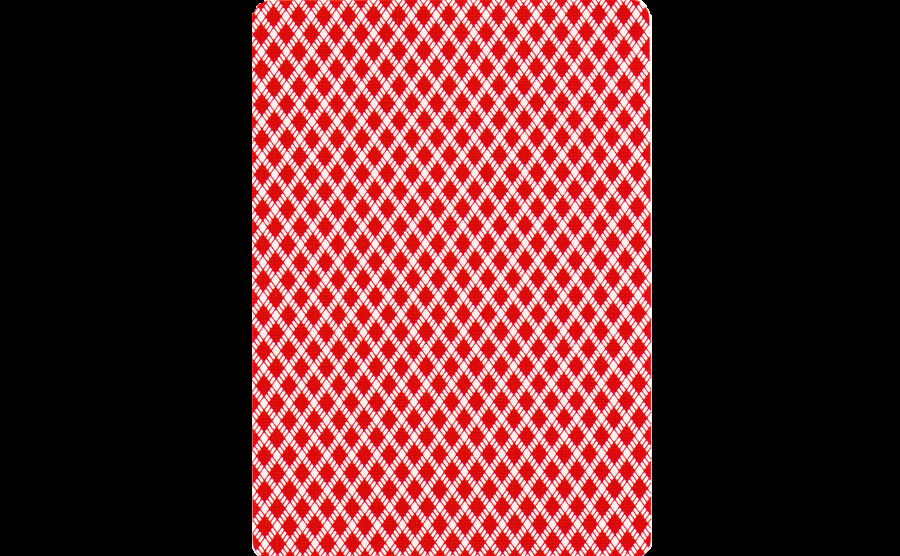
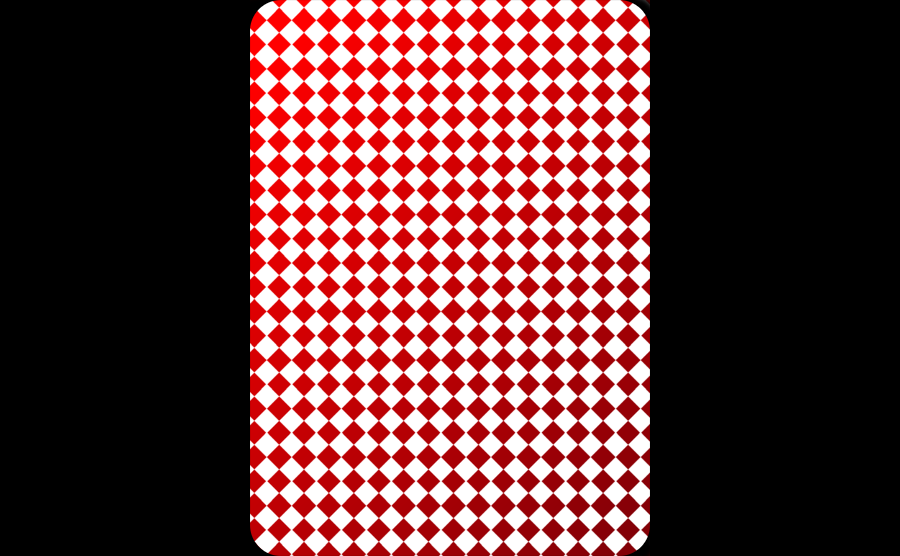
add neon chips and geometric card back

diff --git a/src/pages/store/store.ts b/src/pages/store/store.ts
@@ -209,98 +209,4 @@ export class StorePage {
         }
     }
 
-
-    // updateStoreTable(columnName: string, player_id: number, item: StoreItem) {
-    //     let newPlayerMoneyTotal = this.player.money - item.price;
-
-    //     // update db that user bought this background
-    //     alert('You bought: ' + item.title + ' for: $' + item.price);
-
-    //     this.database.executeSql("UPDATE store SET " + columnName + " = 'true' WHERE player_id = " + player_id + "", []).then((data) => {
-    //         console.log("Bought Background: " + JSON.stringify(data));
-    //         this.database.executeSql("UPDATE players SET money = " + newPlayerMoneyTotal + " WHERE id = " + player_id + "", []).then((data) => {
-    //             this.player.subtractMoney(item.price);
-    //             console.log("UPDATED: " + JSON.stringify(data));
-    //             this.getPurchases();
-    //         }, (error) => {
-    //             console.log("ERROR: " + JSON.stringify(error.message));
-    //         });
-    //     }, (error) => {
-    //         console.log("ERROR: " + JSON.stringify(error.message));
-    //         console.log("sql statement: " + "UPDATE players SET money = " + newPlayerMoneyTotal + " WHERE id = " + player_id + "");
-    //     });
-    // }
-
-
-    // getPurchases() {
-    //     this.database.executeSql("SELECT * FROM players", []).then((data) => {
-    //         if (data.rows.length > 0) {
-    //             for (var i = 0; i < data.rows.length; i++) {
-    //                 let row = data.rows.item(i);
-    //                 this.player = new Player(row.id, row.name, [], row.money, false, "Human", 0, 0);
-    //             }
-    //             this.database.executeSql("SELECT * FROM store", []).then((data) => {
-    //                 this.storeDBItem = {};
-    //                 if (data.rows.length > 0) {
-    //                     for (var i = 0; i < data.rows.length; i++) {
-    //                         let dbItem = data.rows.item(i);
-    //                         if (dbItem.player_id === this.player.id) {
-    //                             this.storeDBItem = {
-    //                                 'player_id': dbItem.player_id,
-    //                                 'greenPoker': dbItem.greenPoker_back,
-    //                                 'redPoker': dbItem.redPoker_back,
-    //                                 'bluePoker': dbItem.bluePoker_back,
-    //                                 'greenFelt': dbItem.greenFelt_back,
-    //                                 'spaceNight': dbItem.spaceNight_back,
-    //                                 'redDiamonds': dbItem.redDiamonds_cardBack,
-    //                                 'material': dbItem.material_cardFront,
-    //                                 'classic': dbItem.classic_cardFront,
-    //                                 'vegas': dbItem.vegas_chips
-    //                             };
-    //                             break;
-    //                         }
-    //                     }
-    //                     this.backgrounds = [
-    //                         new StoreItem('Green Poker', 'assets/img/backgrounds/greenPoker.png', 'A nice classic table to play some black jack with your friends on!', 8500, 'greenPoker', this.storeDBItem['greenPoker'] === 'true'),
-    //                         new StoreItem('Red Poker', 'assets/img/backgrounds/redPoker.png', 'Red is for Warning, because with this table it shows you mean business!', 8500, 'redPoker', this.storeDBItem['redPoker'] === 'true'),
-    //                         new StoreItem('Blue Poker', 'assets/img/backgrounds/bluePoker.png', 'A blue, calmning twist on the class green black jack table.', 8500, 'bluePoker', this.storeDBItem['bluePoker'] === 'true'),
-    //                         new StoreItem('Green Felt', 'assets/img/backgrounds/greenFelt.png', 'A nice table to play some black jack with your friends on!', 2000, 'greenFelt', true),
-    //                         new StoreItem('Space Night', 'assets/img/storePics/space_night.jpg', 'Nothing like playing cards under the night sky with a full moon!', 8500, 'spaceNight', this.storeDBItem['spaceNight'] === 'true')
-    //                     ];
-    //                     this.cardFronts = [
-    //                         new StoreItem('Material', 'assets/img/storePics/material.png', 'A spin off of Google\'s material design, these cards are minimalistic and simple but beautiful.', 8000, 'material', true)
-    //                     ];
-    //                     this.cardBacks = [
-    //                         new StoreItem('Red Diamonds', 'assets/img/storePics/redDiamonds.png', 'Can\'t go wrong with the red diamonds, unless the dealer turns them over for BlackJack.', 2000, 'redDiamonds', true)
-    //                     ];
-    //                     this.chips = [
-    //                         new StoreItem('Vegas', 'assets/img/storePics/vegas.png', 'The good ol classic vegas style chips. Certainly would love stacks of the gold chip.', 2000, 'vegasChips', true)
-    //                     ];
-
-    //                 } else {
-    //                     // No row in store?
-    //                     this.addStoreRow(this.player);
-    //                 }
-    //             }, (error) => {
-    //                 console.log("ERROR getting purchases in storePage: " + JSON.stringify(error));
-    //             });
-    //         } else {
-    //             // No player in the db
-    //         }
-    //     }, (error) => {
-    //         console.log("ERROR: " + JSON.stringify(error));
-    //     });
-
-    // }//END getPurchasese()
-
-    // addStoreRow(player: Player) {
-    //     this.database.executeSql("INSERT INTO store (player_id, greenPoker_back, redPoker_back, bluePoker_back, greenFelt_back, spaceNight_back, redDiamonds_cardBack, material_cardFront, classic_cardFront, vegas_chips) " +
-    //         " VALUES ('" + player.id + "', 'false', 'false', 'false', 'true', 'false', 'true', 'true', 'false', 'true')", []).then((data) => {
-    //             console.log("INSERTED into store: " + " VALUES ('" + player.id + "', 'false', 'false', 'false', 'true', 'false', 'true', 'true', 'false', 'true')");
-    //             this.getPurchases();
-    //         }, (error) => {
-    //             console.log("ERROR: " + JSON.stringify(error.message));
-    //         });
-    // }
-
 }

diff --git a/src/providers/store-provider.ts b/src/providers/store-provider.ts
@@ -18,12 +18,14 @@ class StoreRow {
     public greenFelt_back: string;
     public spaceNight_back: string;
     public redDiamonds_cardBack: string;
+    public geometric_cardBack: string;
     public material_cardFront: string;
     public classic_cardFront: string;
     public vegas_chips: string;
+    public neon_chips: string;
 
     constructor(player_id: string, greenPoker_back: string, redPoker_back: string, bluePoker_back: string, greenFelt_back: string, spaceNight_back: string,
-        redDiamonds_cardBack: string, material_cardFront: string, classic_cardFront: string, vegas_chips: string) {
+        redDiamonds_cardBack: string, geometric_cardBack: string, material_cardFront: string, classic_cardFront: string, vegas_chips: string, neon_chips: string) {
         this.player_id = player_id;
         this.greenPoker_back = greenPoker_back;
         this.redPoker_back = redPoker_back;
@@ -31,9 +33,11 @@ class StoreRow {
         this.greenFelt_back = greenFelt_back;
         this.spaceNight_back = spaceNight_back;
         this.redDiamonds_cardBack = redDiamonds_cardBack;
+        this.geometric_cardBack = geometric_cardBack;
         this.material_cardFront = material_cardFront;
         this.classic_cardFront = classic_cardFront;
         this.vegas_chips = vegas_chips;
+        this.neon_chips = neon_chips;
     }
 }
 class StoreItem {
@@ -60,7 +64,7 @@ export class StoreProvider {
     database: SQLite;
     settings: Settings;
     purchases: any;
-    columns: string = "player_id, greenPoker_back, redPoker_back, bluePoker_back, greenFelt_back, spaceNight_back, redDiamonds_cardBack, material_cardFront, classic_cardFront, vegas_chips";
+    columns: string = "player_id, greenPoker_back, redPoker_back, bluePoker_back, greenFelt_back, spaceNight_back, redDiamonds_cardBack, geometric_cardBack, material_cardFront, classic_cardFront, vegas_chips, neon_chips";
 
     constructor(public platform: Platform, public http: Http, private playerProvider: PlayerProvider, private toastProvider: ToastProvider) {
         this.purchases = {
@@ -98,9 +102,11 @@ export class StoreProvider {
                                 'greenFelt': dbItem.greenFelt_back,
                                 'spaceNight': dbItem.spaceNight_back,
                                 'redDiamonds': dbItem.redDiamonds_cardBack,
+                                'geometric': dbItem.geometric_cardBack,
                                 'material': dbItem.material_cardFront,
                                 'classic': dbItem.classic_cardFront,
-                                'vegas': dbItem.vegas_chips
+                                'vegas': dbItem.vegas_chips,
+                                'neon': dbItem.neon_chips
                             };
                             break;
                         }
@@ -117,9 +123,11 @@ export class StoreProvider {
                             'greenFelt': data.greenFelt_back,
                             'spaceNight': data.spaceNight_back,
                             'redDiamonds': data.redDiamonds_cardBack,
+                            'geometric': data.geometric_cardBack,
                             'material': data.material_cardFront,
                             'classic': data.classic_cardFront,
-                            'vegas': data.vegas_chips
+                            'vegas': data.vegas_chips,
+                            'neon': data.neon_chips
                         };
                     });
                 }
@@ -136,10 +144,12 @@ export class StoreProvider {
                     new StoreItem('Material', 'assets/img/storePics/material.png', 'A spin off of Google\'s material design, these cards are minimalistic and simple but beautiful.', 8000, 'material', storeDBItem['material'] === 'true')
                 ];
                 this.purchases.cardBacks = [
-                    new StoreItem('Red Diamonds', 'assets/img/storePics/redDiamonds.png', 'Can\'t go wrong with the red diamonds, unless the dealer turns them over for BlackJack.', 2000, 'redDiamonds', true)
+                    new StoreItem('Red Diamonds', 'assets/img/storePics/redDiamonds.png', 'Can\'t go wrong with the red diamonds, unless the dealer turns them over for BlackJack.', 2000, 'redDiamonds', storeDBItem['redDiamonds'] === 'true'),
+                    new StoreItem('Geometric', 'assets/img/storePics/geometric.png', 'This is a colorful and vibrant card back, almost makes you not want to turn the card over.', 8000, 'geometric', storeDBItem['geometic'] === 'true')
                 ];
                 this.purchases.chips = [
-                    new StoreItem('Vegas', 'assets/img/storePics/vegas.png', 'The good ol classic vegas style chips. Certainly would love stacks of the gold chip.', 2000, 'vegas', true)
+                    new StoreItem('Vegas', 'assets/img/storePics/vegas.png', 'The good ol classic vegas style chips. Certainly would love stacks of the gold chip.', 2000, 'vegas', storeDBItem['vegas'] === 'true'),
+                    new StoreItem('Neon', 'assets/img/storePics/neon.png', 'These chips will match all the neon lights in the casino and light up the table.', 9000, 'neon', storeDBItem['neon'] === 'true')
                 ];
                 resolve(this.purchases);
             }, (error) => {
@@ -153,7 +163,7 @@ export class StoreProvider {
     addStoreRow(player: Player): Promise<StoreRow> {
         return new Promise((resolve, reject) => {
             this.database.executeSql("INSERT INTO store (" + this.columns + ") " +
-                " VALUES (?, ?, ?, ?, ?, ?, ?, ?, ?, ?)", [player.id + "", 'false', 'false', 'false', 'true', 'false', 'true', 'false', 'true', 'true']).then((data) => {
+                " VALUES (?, ?, ?, ?, ?, ?, ?, ?, ?, ?, ?, ?)", [player.id + "", 'false', 'false', 'false', 'true', 'false', 'true', 'false', 'false', 'true', 'true', 'false']).then((data) => {
                     resolve(data);
                 }, (error) => {
                     console.log("ERROR store-provider addStoreRow() INSERT INTO store: " + JSON.stringify(error.message));

diff --git a/src/app/app.component.ts b/src/app/app.component.ts
@@ -92,7 +92,7 @@ export class MyApp {
                     this.player = new Player(data.rows.item(0).id, data.rows.item(0).name, [], data.rows.item(0).money, false, "Human", 0, 0);
                     this.createStoreTable();
                 } else {
-                    let newPlayer = new Player(-1, "Player", [], 100000, false, "Human", 0, 0);
+                    let newPlayer = new Player(-1, "Player", [], 100000, false, "Human", 0, 0);//Default player
                     this.db.executeSql("INSERT INTO players (name, money) VALUES (?, ?)", [newPlayer.name, newPlayer.money]).then((data) => {
                         console.log("INSERTED into players: " + JSON.stringify(data));
 
@@ -129,9 +129,11 @@ export class MyApp {
           "greenFelt_back TEXT, " +
           "spaceNight_back TEXT, " +
           "redDiamonds_cardBack TEXT, " +
+          "geometric_cardBack TEXT, " +
           "material_cardFront TEXT, " +
           "classic_cardFront TEXT, " +
           "vegas_chips TEXT, " +
+          "neon_chips TEXT, " +
           "FOREIGN KEY(player_id) REFERENCES players(id))", {}).then((data) => {
             console.log("store TABLE CREATED: ", data);
 
@@ -139,9 +141,9 @@ export class MyApp {
                 if(data.rows.length > 0) {
                     this.createSettingsTable();
                 } else {
-                    this.db.executeSql("INSERT INTO store (player_id, greenPoker_back, redPoker_back, bluePoker_back, greenFelt_back, spaceNight_back, redDiamonds_cardBack, material_cardFront, classic_cardFront, vegas_chips) " +
-                    " VALUES (?, ?, ?, ?, ?, ?, ?, ?, ?, ?)", [this.player.id+'', 'false', 'false', 'false', 'true', 'false', 'true', 'false', 'true', 'true']).then((data) => {
-                        console.log("INSERTED into store: " + " VALUES ('"+ this.player.id +"', 'false', 'false', 'false', 'true', 'false', 'true', 'false', 'true', 'true')");
+                    this.db.executeSql("INSERT INTO store (player_id, greenPoker_back, redPoker_back, bluePoker_back, greenFelt_back, spaceNight_back, redDiamonds_cardBack, geometric_cardBack, material_cardFront, classic_cardFront, vegas_chips, neon_chips) " +
+                    " VALUES (?, ?, ?, ?, ?, ?, ?, ?, ?, ?, ?, ?)", [this.player.id+'', 'false', 'false', 'false', 'true', 'false', 'true', 'false', 'false', 'true', 'true', 'false']).then((data) => {
+                        console.log("INSERTED into store: " + " VALUES ('"+ this.player.id +"', 'false', 'false', 'false', 'true', 'false', 'true', 'false', 'false', 'true', 'true', 'false')");
                         this.createSettingsTable();
                     }, (error) => {
                         console.log("ERROR: " + JSON.stringify(error.message));

diff --git a/src/pages/settings/settings.ts b/src/pages/settings/settings.ts
@@ -27,7 +27,7 @@ export class SettingsPage {
         public playerProvider: PlayerProvider,
         public storeProvider: StoreProvider,
         public toastProvider: ToastProvider) {
-        this.settings = new Settings(2000, false, false, "greenFelt", "redDiamonds", "material", "vegas");
+        this.settings = new Settings(2000, false, false, "greenFelt", "redDiamonds", "material", "vegas");//default that gets overriden
         this.platform.ready().then(() => {
             this.database = new SQLite();
             this.database.openDatabase({ name: "blackJackDB.db", location: "default" }).then(() => {
